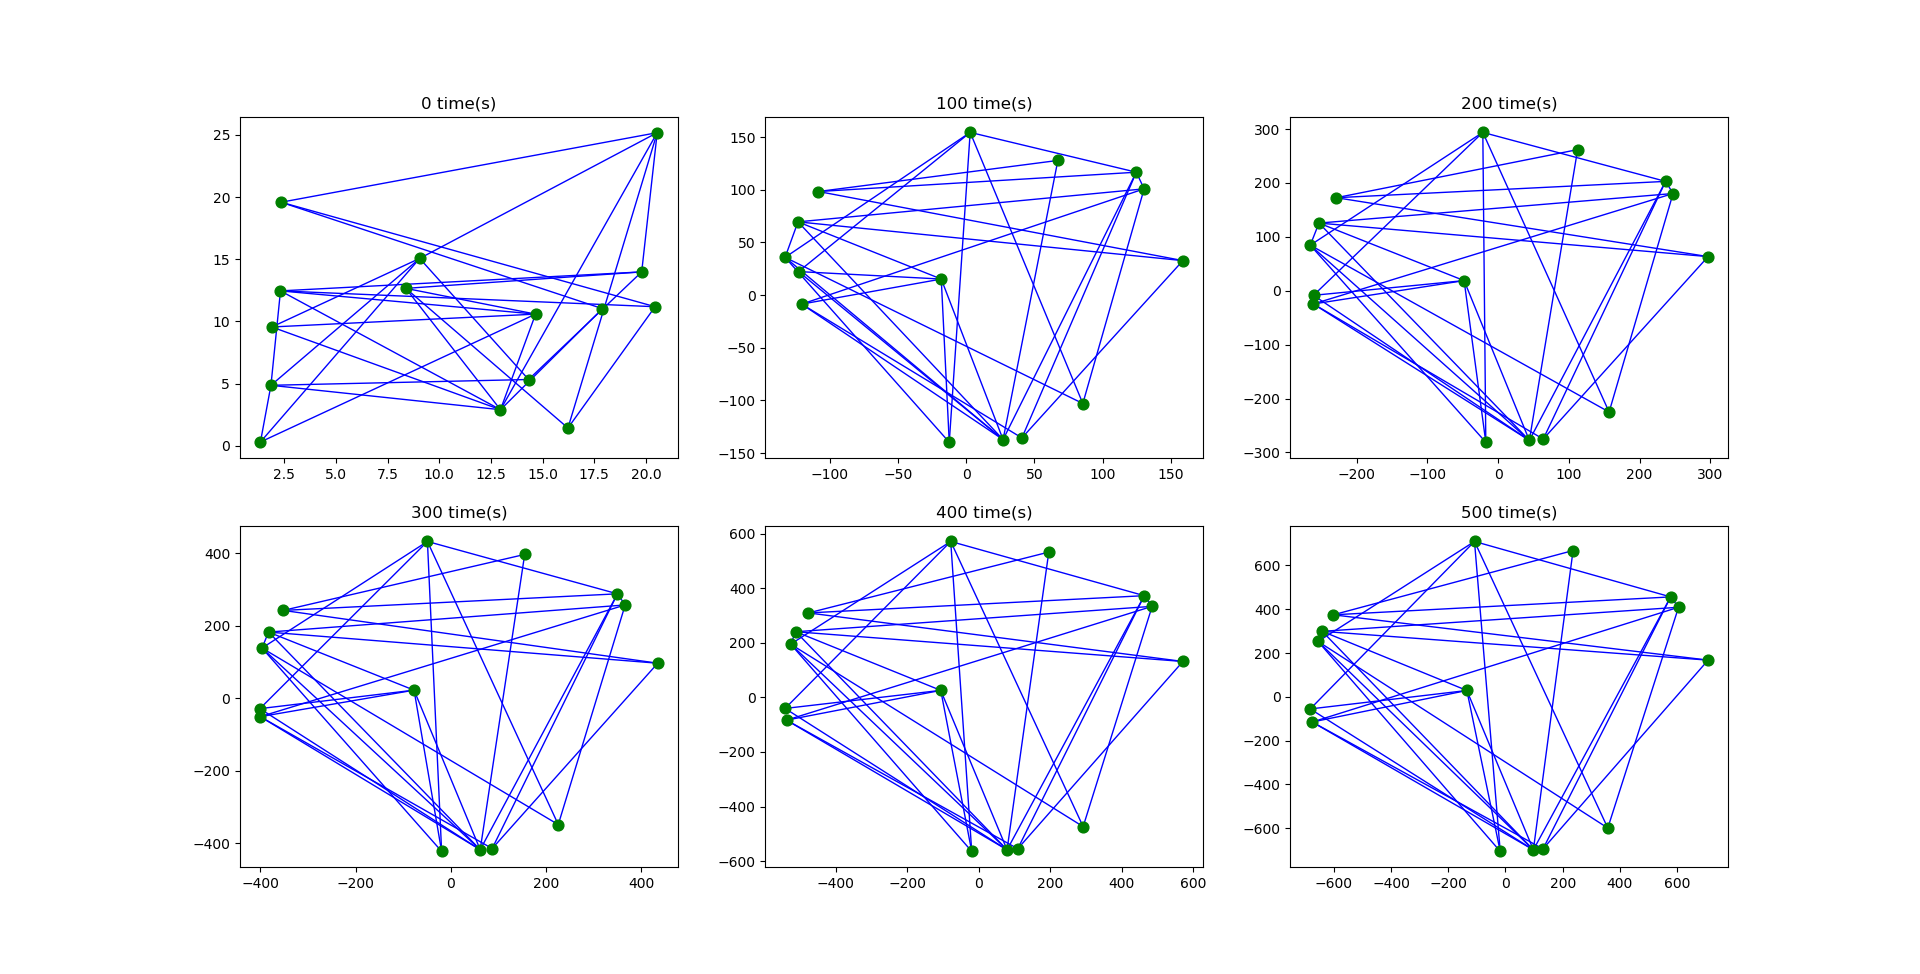
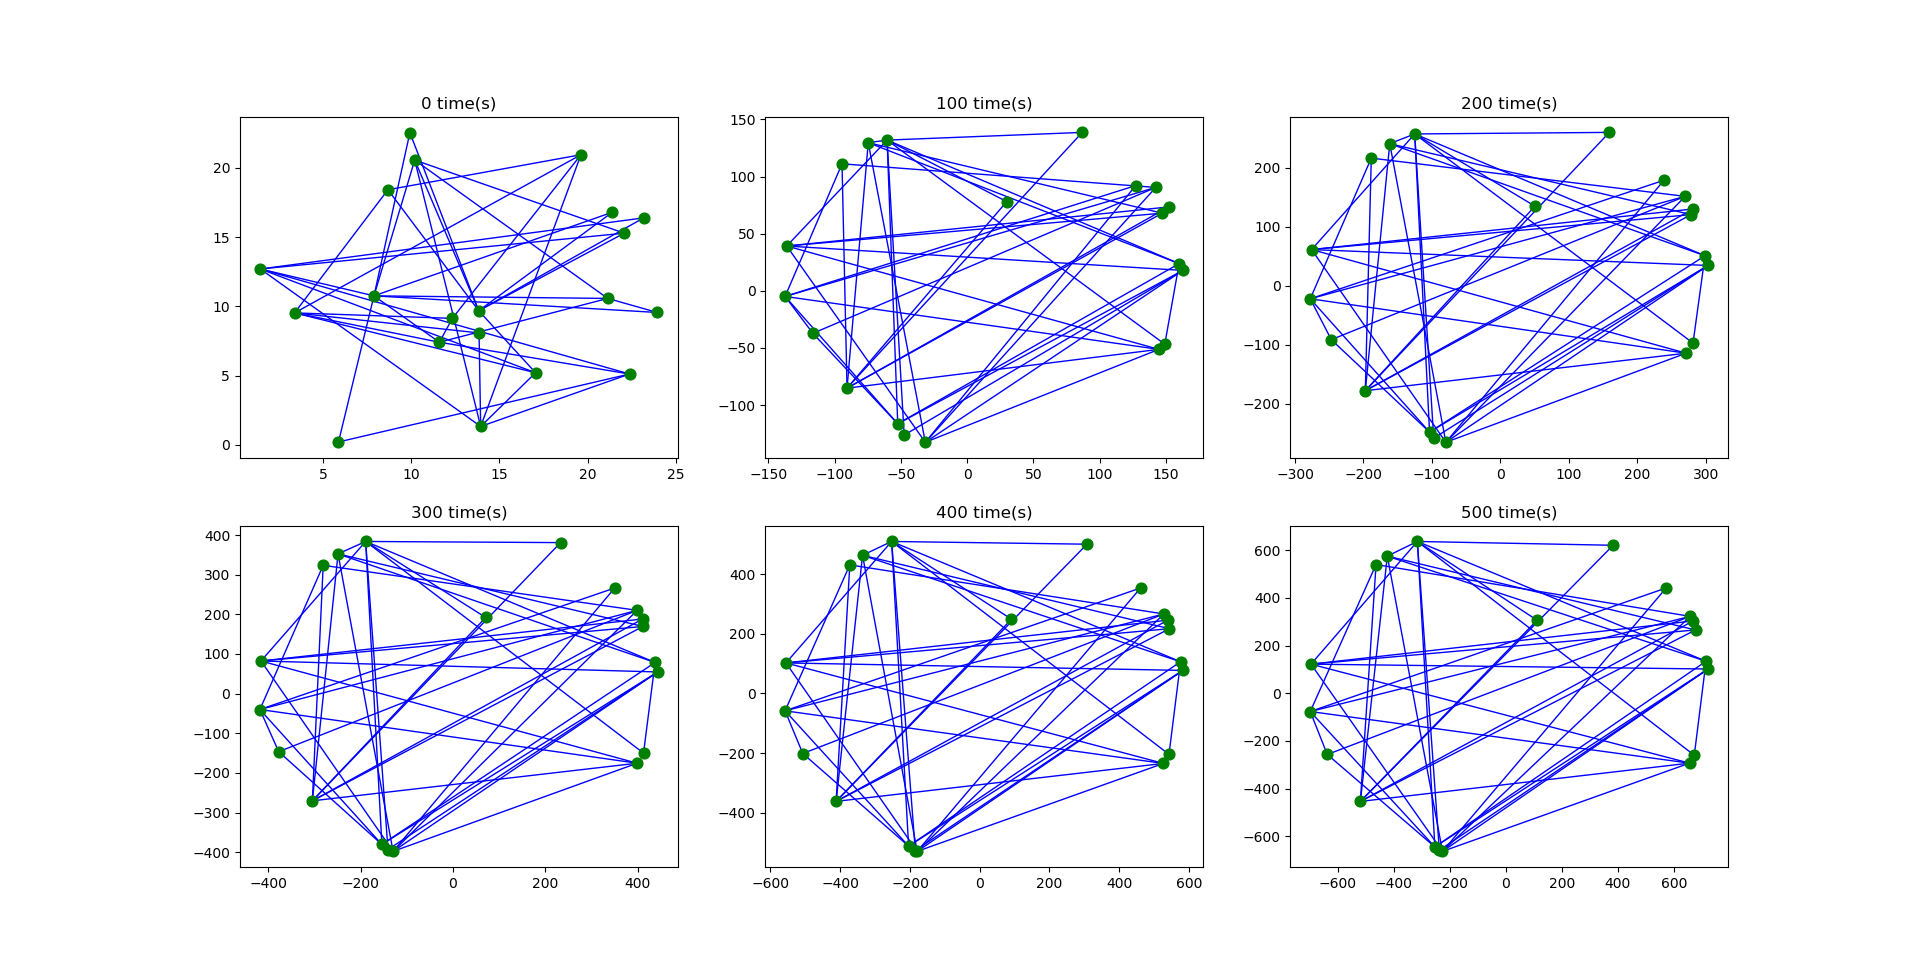
change example

diff --git a/force.py b/force.py
@@ -8,10 +8,10 @@ import time
 from quadT import QuadTree,Rectangle
 
 L=1
-K_r=10
-K_s=10
+K_r=2
+K_s=20
 delta_t=0.1
-N=15 #nodes counts
+N=20 #nodes counts
 maxsqua=2
 
 boundary=Rectangle(200,200,200,200)
@@ -34,7 +34,7 @@ fixed_pos =dict(zip(t1,t2)) #set fixed layout location
 for i in range(N):
     rx=random.uniform(0,25)
     ry=random.uniform(0,25)
-    edges=random.randint(1,4) #randomly add edges 
+    edges=random.randint(1,3) #randomly add edges 
     rn=[]
     for j in range(edges):
         rn.append(random.randint(0,N-1))
